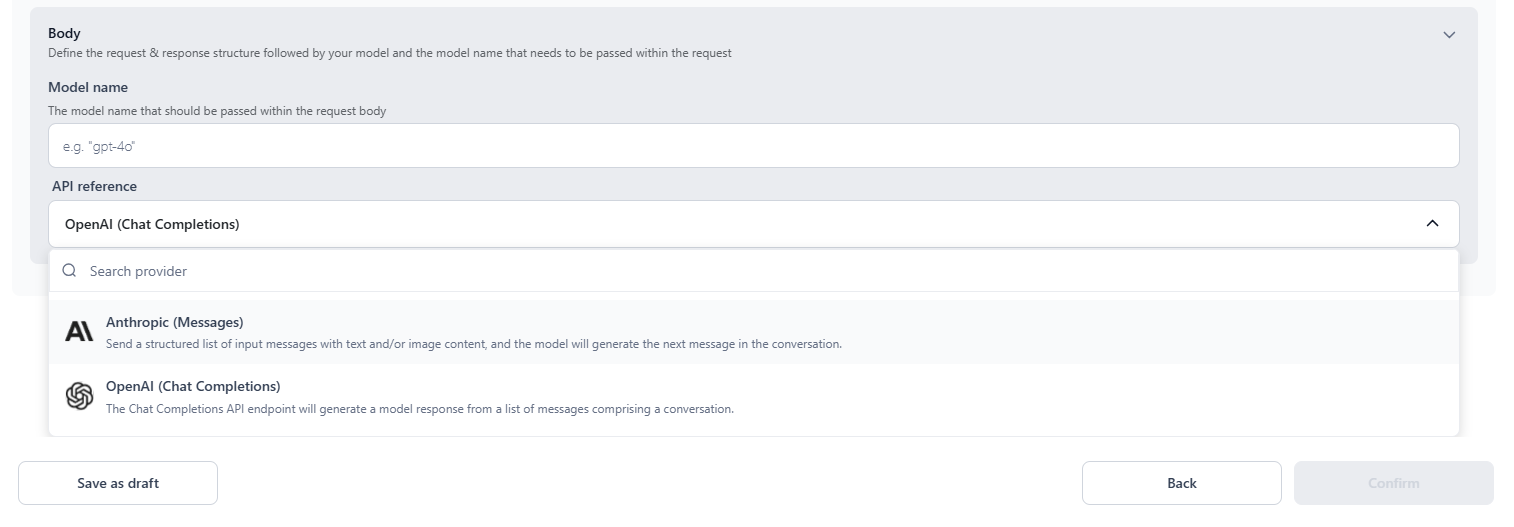
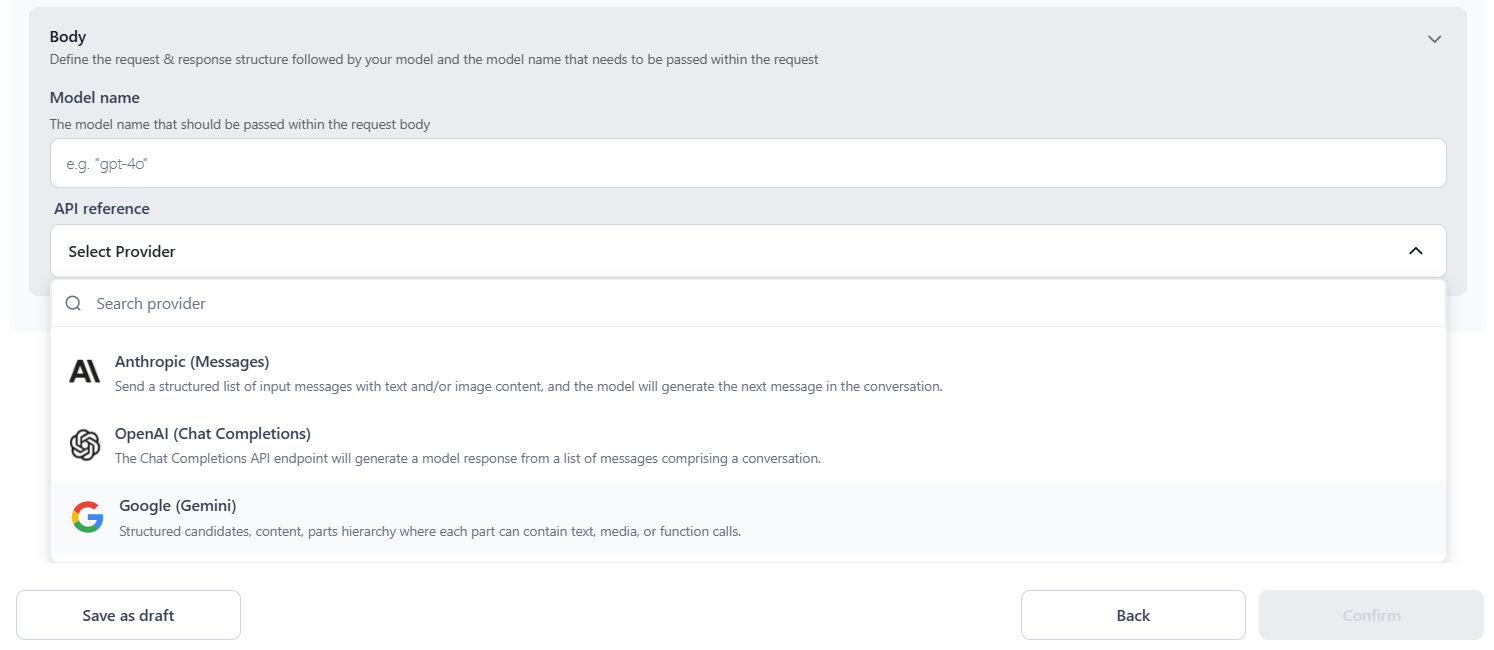
updates

diff --git a/docs/agent-platform/guardrails/add-a-scanner.md b/docs/agent-platform/guardrails/add-a-scanner.md
@@ -1,32 +1,31 @@
-# Add Input/Output Scanners
+# Enable Input/Output Scanners
 
-You can add input or output scanners to evaluate prompts or responses in your application. Input scanners assess inputs or prompts sent to the LLM node, while output scanners evaluate the responses received from the LLM.
+Input and output scanners help evaluate prompts and responses within your application.
 
-In the following steps, you will learn how to add an input scanner. The steps to add an output scanner are similar to those for an input scanner. You need to add input and output scanners separately based on your requirements.
+* Input scanners assess user inputs or prompts sent to an AI node.
+* Output scanners evaluate the responses returned from the LLM.
 
 !!! note
 
-    Scanners must be deployed before you add or use them. [Learn more](./manage-guardrails.md).
+    All system scanners are pre-deployed and available by default. You simply enable the scanners you want to use.
 
-Steps to add a Scanner:
+
+The steps below describe how to enable an input scanner. The steps for enabling an output scanner are similar.
+
+Steps to enable an input scanner:
 
 1. Log in to your account and click **Tools** under **Agent Platform Modules**.
    <img src="../images/access-tools-module.png" alt="access tools" title="access tools" style="border: 1px solid gray; zoom:75%;">
 
-2. In the **Tools** section, click the name of the tool to which you want to add the scanner. The Tool flow page is displayed. 
+2. In the **Tools** section, click the name of the tool where you want to enable scanners. The Tool Flow page opens. 
 
 2. Click **Guardrails** in the left navigation pane. The Guardrails page is displayed.  
-<img src="./../images/navigate-to-guardrails.png" alt="Navigate to Guardrails" title="Navigate to Guardrails" style="border: 1px solid gray; zoom:80%;">
+<img src="./../images/guardrails_predeployed.png" alt="Guardrails" title="Guardrails" style="border: 1px solid gray; zoom:80%;">
 
-3. In the Input Scanners section, click **Add Scanner**, select the required scanners from the pop-up list, and then click **Done**. 
-<img src="./../images/add_a_scanner.png" alt="Add Input Scanner" title="Add Input Scanner" style="border: 1px solid gray; zoom:80%;">
+3. In the Input Scanners section, review the list of pre-deployed scanners and turn on the toggle to each scanner you want to apply.
+<img src="./../images/enable_guardrails.png" alt="Enable Guardrail" title="Enable Guardrail" style="border: 1px solid gray; zoom:80%;">
 
-    The selected scanners are added to the list.  
-    <img src="./../images/added-guardrails.png" alt="Scanner Added" title="Scanner Added" style="border: 1px solid gray; zoom:80%;">
+4. Click the added scanner to configure its settings, which vary depending on the scanner type.
+For example, **Toxicity** includes options such as *Risk Threshold* and *Detection Sensitivity*. 
+<img src="./../images/toxicity-config.png" alt="Configure Settings" title="Configure Settings" style="border: 1px solid gray; zoom:80%;">
 
-4. Click an added scanner to configure its settings, which vary depending on the scanner type.
-For example, **Toxicity** has "Threshold" and "End the flow if the risk score is above" settings, while **Regex** has "Enter patterns to ban", "End the flow if the risk score is above", and "Match type" settings.  
-<img src="./../images/toxicity-scanner-settings.png" alt="Configure Scanner's Settings" title="Configure Scanner's Settings" style="border: 1px solid gray; zoom:80%;">
-
-5. (Optional) To add more scanners, click the plus or **Add Scanner** icon. To remove an unused scanner, click the minus or **Remove Scanner** icon.  
-<img src="./../images/add-remove-scanners.png" alt="Remove Scanner" title="Remove Scanner" style="border: 1px solid gray; zoom:80%;">

diff --git a/docs/agent-platform/evaluation/overview.md b/docs/agent-platform/evaluation/overview.md
@@ -18,13 +18,13 @@ This evaluation is ideal for fine-tuning, comparing, and validating models befor
 
 ### Agentic Evaluation
 
-Agentic Evaluation is designed to assess how effectively an agentic application performs in production. You can:
+Agentic Evaluation is designed to assess how effectively an agentic app performs in both production and pre-production environments. Users can import real session data from deployed apps or generate simulated sessions to test behavior before go-live. You can:
 
-* Import app sessions and trace data
+* Import app sessions and trace from production or simulations
 * Run multi-level evaluations to see how well the app achieves goals, follows workflows, and uses tools
 * Analyze inputs and outputs across supervisors, agents, and tools
 
-Agentic Evaluation enables multi-level evaluation across sessions and traces, offering deep insights into how orchestrators, agents, and tools operate in production. This helps uncover coordination issues, workflow failures, and opportunities for optimization.
+Agentic Evaluation enables multi-level evaluation across sessions and traces, offering deep insights into how orchestrators, agents, and tools behave across real and simulated conditions. This helps uncover coordination issues, workflow failures, and opportunities for optimization.
 
 [Learn more :octicons-arrow-right-24:](./agentic-evaluation/overview.md)
 
@@ -35,6 +35,6 @@ Agentic Evaluation enables multi-level evaluation across sessions and traces, of
 2. Go to the **Agent Platform Modules** menu and select **Evaluation Studio**.
     <img src="../images/evaluation_studio.png" alt="access evaluation studio" title="access evaluation studio" style="border: 1px solid gray; zoom:75%;">
  
-2. On the Evaluation page, select **Model evaluation** or **Agent evaluation** to begin.
+2. On the Evaluation page, select **Model evaluation** or **Agentic evaluation** to begin.
 
     <img src="../images/eval_studio_page.png" alt="Evaluation page" title="Evaluation page" style="border: 1px solid gray; zoom:80%;">

diff --git a/docs/agent-platform/models/external-models/add-an-external-model-using-api-integration.md b/docs/agent-platform/models/external-models/add-an-external-model-using-api-integration.md
@@ -77,7 +77,7 @@ This prevents customers from utilizing these models for advanced scenarios, such
 This feature removes that limitation by:
 
 * Allowing users to provide complete request/response definitions through the UI or OpenAPI specifications. 
-* Supporting commonly known request/response schemas (e.g., OpenAI Completions, Anthropic Messages).
+* Supporting commonly known request/response schemas (e.g., OpenAI Completions, Anthropic Messages, Google Gemini).
 
 With the Default option, you must manually define the request payload variables, including the model’s static and dynamic body parameters, and generate the response for the configured LLM. In this section, however, you can enable the required features and choose an LLM provider to automatically map the request and response schemas to their standard API format.
 
@@ -101,8 +101,8 @@ With the Default option, you must manually define the request payload variables,
 
   * **Anthropic (Messages)**:  Specifies that the selected model follows the request-response structure similar to [Anthropic’s Messages API](https://docs.anthropic.com/en/api/messages){:target="_blank"}.
   * **OpenAI (Chat Completions)**: Specifies that the selected model follows the request-response structure similar to [OpenAI’s Chat Completions API](https://platform.openai.com/docs/api-reference/chat){:target="_blank"}.
+  * **Google (Gemini)**: Specifies that the selected model follows the request–response structure for Google’s Gemini API, enabling compatibility with Gemini-formatted requests and responses.
   <img src="../images/api-reference-model.png" alt="api reference" title="api reference" style="border: 1px solid gray; zoom:75%;">
-
 
 ## Manage Custom API Integrations
 
